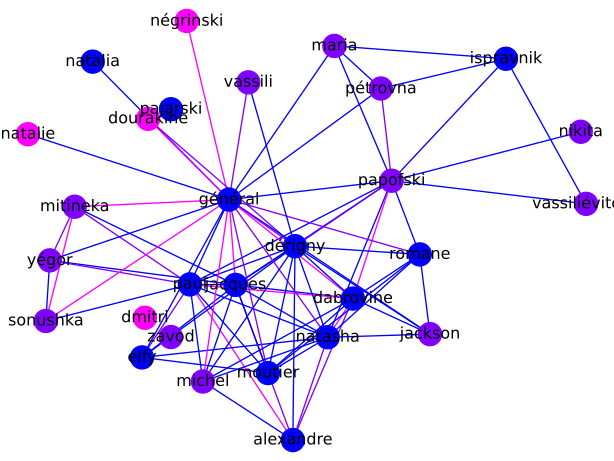
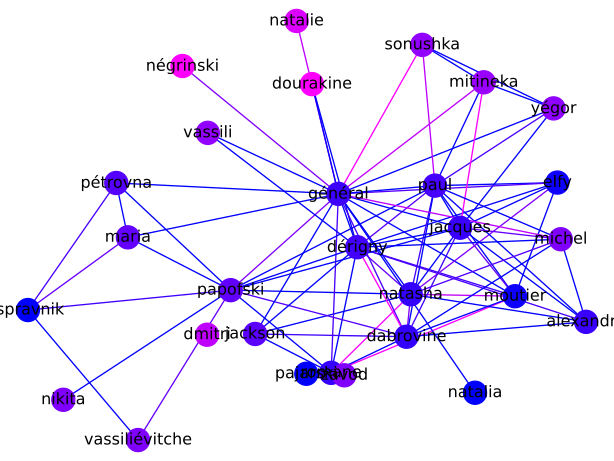
Docstrings added to character_identification, and complete conversion to function; test of clustering as node labels

diff --git a/textual_analysis.py b/textual_analysis.py
@@ -7,9 +7,12 @@ import networkx as nx
 import matplotlib.pyplot as plt
 import logging
 from sklearn.feature_extraction.text import TfidfVectorizer
+from sklearn.cluster import KMeans
+from sklearn import preprocessing
 from joblib import load
 from sentiment_analysis_training_set_generation import file_processor, text_preprocessing
 from co_occurrence_data_generation import list_comparer, general_character_handling
+from character_identification import execute_char_id
 
 logging.basicConfig(level=logging.CRITICAL,format='%(asctime)s - %(levelname)s - %(message)s')
 
@@ -44,9 +47,6 @@ def network_visualizer(edge_matrix, character_list, edge_sentiment, node_sentime
             if i < j:
                 if edge_matrix[i,j] == True:
                     edge_list.append((characters[i],characters[j]))
-    ### Characterize sentiment as positive vs negative vs. neutral
-    edge_sentiment = [1 if ind >= 0.35 else 0.5 if -0.35 < ind and ind < 0.35 else 0 for ind in edge_sentiment]
-    node_sentiment = [1 if ind >= 0.35 else 0.5 if -0.35 < ind and ind < 0.35 else 0 for ind in node_sentiment]
     ### Create RGB tuple vectors for edges and nodes
     edge_colours = []
     for i in edge_sentiment:
@@ -66,7 +66,7 @@ def network_visualizer(edge_matrix, character_list, edge_sentiment, node_sentime
 if __name__ == "__main__":
 
     ### Load text file, remove licence, and do text_preprocessing
-    processed = text_preprocessing(file_processor('./data/general.txt','''A ma petite-fille'''))
+    processed = text_preprocessing(file_processor('./data/general.txt','''A ma petite-fille''','''End of Project Gutenberg's'''))
 
     ### Load pretrained vectorizer and classifier
     vectorizer = load('./data/vectorizer.joblib')
@@ -77,11 +77,12 @@ if __name__ == "__main__":
     text = nltk.Text(tokens)
 
     ### The names of characters
-    names = list(load('./data/character_names.joblib'))
+    names = execute_char_id('./data/general.txt','''A ma petite-fille''','''End of Project Gutenberg's''')
     names = [i.lower() for i in names]
 
     ### Generate list of locations for each character
     locations = general_character_handling(text, names)
+    number_of_occurrences = [len(ind) for ind in locations]
 
     ### How close in the text should character tokens have to be to be counted?
     threshold = 20
@@ -104,7 +105,16 @@ if __name__ == "__main__":
             char_scores.append(np.mean(scores))
         else:
             char_scores.append(0)
-    print(char_scores)
+    char_scores_regularized = [(i+1)/2 for i in char_scores]
+
+    data = np.array((char_scores,number_of_occurrences)).T
+    # print(data)
+
+    # ### Clustering of characters by character sentiment and number of occurrences
+    # kmeans = KMeans(n_clusters=3, random_state=0).fit(data)
+    # char_clusters_for_plotting = [i/2 for i in kmeans.labels_]
+    # for i in range(len(char_clusters_for_plotting)):
+    #     print("Name: {}, Cluster: {}".format(names[i], kmeans.labels_[i]))
 
     ### Sentiment scores for co-occurrence passages
     df = pd.read_csv('./data/relationship_passages.csv')
@@ -125,11 +135,11 @@ if __name__ == "__main__":
     ### Mean sentiment score for each edge in the graph, in same order
     ### as edges extracted from the table of edges (i.e. order in network_visualizer)
     mean_passage_scores = [ind for ind in valid_edge_scores if isinstance(ind,float)]
-    print(mean_passage_scores)
+    passage_scores_regularized = [(i+1)/2 for i in mean_passage_scores]
 
     ### Temporarily equate characters and names (ultimately characters should
     ###be a resolved form of names)
     characters = names
 
     ### Visualizing network
-    network_visualizer(edges, characters, mean_passage_scores, char_scores)
+    network_visualizer(edges, characters, passage_scores_regularized, char_scores_regularized)

diff --git a/character_identification.py b/character_identification.py
@@ -1,10 +1,13 @@
 import nltk as nltk
-import numpy as np
 import re
-from sentiment_analysis_training_set_generation import file_processor, text_preprocessing
-from joblib import dump
+from sentiment_analysis_training_set_generation import file_processor
 
 def capitalized_not_sentence_beginner(text):
+    '''(str) -> {str}
+    Accepts a raw string and finds all the words in the string that are capitalized
+    but which don't begin a sentence. Then removes stopwords, geographic place
+    names, and rare entries before returning the remaining words in a set.'''
+
     ### Use Regex to find all words that begin with a capital letter but that
     ### don't begin a sentence. Note: still captures words at beginning of sentence
     ### that begin their paragraph.
@@ -32,14 +35,16 @@ def capitalized_not_sentence_beginner(text):
     for i in results:
         count.setdefault(i,0)
         count[i] = count[i]+1
-    # print(count)
 
     results = {i for i in count.keys() if count[i] > 4}
     return results
-    ### Results offers names of characters. Remaining issues include
-    ### lack of mentions of the general, resolution of synonyms.
 
 def uncapitalized_speakers(text):
+    '''(str) -> {str}
+    Accepts a raw string and finds instances of a uncapitalized words preceding a colon
+    followed by opening guimets, indicating a speaker. Removes rare results
+    before returning a set of results.'''
+
     ### One of the challenges with capitalized names is that honorifics
     ### (e.g. docteur, sergent) and family names following honorifics
     ### (e.g. ispravnik) aren't capitalized.
@@ -47,7 +52,7 @@ def uncapitalized_speakers(text):
     ### As the dialogue in the text is semi-structured
     ### we can use that to identify speakers whose names aren't capitalized:
     pattern = re.compile(r'\s([a-zà-ÿ]+): «')
-    results = pattern.findall(raw)
+    results = pattern.findall(text)
     ### Count occurrences of each key, with a goal of removing rare words
     count = {}
     for i in results:
@@ -56,22 +61,19 @@ def uncapitalized_speakers(text):
     results = {i for i in count.keys() if count[i] > 9}
     return results
 
+def execute_char_id(file, beginning_of_text,end_of_text):
+    '''(str,str,str) -> {str}
+    Accepts a file path, a string indicating the beginning of the text (of interest),
+    and a string indicating the end of the text (of interest). Returns a set
+    of character names that results from combining the sets generated by
+    capitalized_names and uncapitalized_names.'''
 
-### Main module
-if __name__ == "__main__":
-
-    ### Load text file, remove licence, and do text_preprocessing
-    raw = file_processor('./data/general.txt','''A ma petite-fille''')
-    processed = text_preprocessing(raw)
-    ### Tokenize into words to find cooccurrences
-    tokens = nltk.word_tokenize(processed)
-    text = nltk.Text(tokens)
+    ### Load text file, remove licence
+    raw = file_processor(file,beginning_of_text,end_of_text)
 
     ### Generate set of proper nouns expected to be people
     capitalized_names = capitalized_not_sentence_beginner(raw)
     uncapitalized_names = uncapitalized_speakers(raw)
     characters = capitalized_names|uncapitalized_names
-    dump(characters,'./data/character_names.joblib')
 
-    ### TO DO ###
-    ### Resolve characters whose names are the same
+    return characters

diff --git a/sentiment_analysis_training_set_generation.py b/sentiment_analysis_training_set_generation.py
@@ -16,7 +16,7 @@ def text_preprocessing(text):
     processed = processed.lower()
     return processed
 
-def file_processor(file_name, initializer_string):
+def file_processor(file_name, initializer_string, terminator_string):
     '''Accepts a valid file name and a string of text that indicates the
     end of the Gutenberg licence. It removes the licence and returns
     the raw text of the document'''
@@ -24,7 +24,7 @@ def file_processor(file_name, initializer_string):
     raw = fh.read()
     fh.close()
     end_of_preample = raw.index(initializer_string)
-    end_of_book = raw.index('''End of Project Gutenberg's''')
+    end_of_book = raw.index(terminator_string)
     licence_removed = raw[end_of_preample:end_of_book]
     return licence_removed
 
@@ -41,8 +41,8 @@ def generate_sentence_csv(text, file_name):
 if __name__ == "__main__":
 
     ### Load training file, remove licence, and preprocess
-    training_file = text_preprocessing(file_processor('./data/auberge.txt','''A mes petits-fils, LOUIS ET GASTON DE MALARET'''))
-    target_file = text_preprocessing(file_processor('./data/general.txt','''A ma petite-fille'''))
+    training_file = text_preprocessing(file_processor('./data/auberge.txt','''A mes petits-fils, LOUIS ET GASTON DE MALARET''','''End of Project Gutenberg's'''))
+    target_file = text_preprocessing(file_processor('./data/general.txt','''A ma petite-fille''','''End of Project Gutenberg's'''))
 
     ### Generate output csvs from text for training and target text
     generate_sentence_csv(training_file,'./data/auberge_raw_sentences.csv')

diff --git a/sentiment_analysis_training.py b/sentiment_analysis_training.py
@@ -17,10 +17,10 @@ logging.basicConfig(level=logging.DEBUG,format='%(asctime)s - %(levelname)s - %(
 def cross_validation_suite(X_train, y_train):
     models = [RandomForestClassifier(n_estimators=200, random_state=0),
         MultinomialNB(),
-        ComplementNB()
-        ,GradientBoostingClassifier(n_estimators=200, random_state=0)]
-    names = ['Random forest:', 'Multinobial Bayes:', 'Complement Bayes:'
-        ,'Gradient Boosting:']
+        ComplementNB()]
+        # ,GradientBoostingClassifier(n_estimators=200, random_state=0)]
+    names = ['Random forest:', 'Multinobial Bayes:', 'Complement Bayes:']
+        # ,'Gradient Boosting:']
     for i in range(len(models)):
         clf = models[i]
         score = cross_val_score(clf,X_train,y_train)
@@ -49,6 +49,7 @@ if __name__ == "__main__":
 
     ### Vectorize text
     # vectorizer = CountVectorizer(max_features=2500, stop_words=stopwords.words('french'))
+    # vectorizer = CountVectorizer(analyzer='char', ngram_range=(5, 5))
     vectorizer = TfidfVectorizer(max_features=2500, stop_words=stopwords.words('french'))
     vectorizer.fit(complete_features)
     features = vectorizer.transform(features).toarray()
@@ -76,5 +77,5 @@ if __name__ == "__main__":
     print(classification_report(y_test,predictions))
     print(accuracy_score(y_test, predictions))
 
-    dump(clf, './data/sentiment_analysis_model.joblib')
-    dump(vectorizer, './data/vectorizer.joblib')
+    # dump(clf, './data/sentiment_analysis_model.joblib')
+    # dump(vectorizer, './data/vectorizer.joblib')

diff --git a/co_occurrence_data_generation.py b/co_occurrence_data_generation.py
@@ -4,8 +4,7 @@ import itertools
 import csv
 import re
 import logging
-from joblib import load
-
+from character_identification import execute_char_id
 from sentiment_analysis_training_set_generation import file_processor, text_preprocessing
 
 logging.basicConfig(level=logging.CRITICAL,format='%(asctime)s - %(levelname)s - %(message)s')
@@ -96,14 +95,14 @@ def list_comparer(lists, threshold):
 if __name__ == "__main__":
 
     ### Load text file, remove licence, and do text_preprocessing
-    processed = text_preprocessing(file_processor('./data/general.txt','''A ma petite-fille'''))
+    processed = text_preprocessing(file_processor('./data/general.txt','''A ma petite-fille''','''End of Project Gutenberg's'''))
 
     ### Tokenize into words to find cooccurrences
     tokens = nltk.word_tokenize(processed)
     text = nltk.Text(tokens)
 
     ### The names of characters
-    names = list(load('./data/character_names.joblib'))
+    names = execute_char_id('./data/general.txt','''A ma petite-fille''','''End of Project Gutenberg's''')
     names = [i.lower() for i in names]
 
     ### Generate list of locations for each character

diff --git a/character_identification_spacy.py b/character_identification_spacy.py
@@ -10,8 +10,8 @@ if __name__ == "__main__":
     ### Load a pre-trained model
     nlp = spacy.load("fr_core_news_sm")
 
-    ### Load text file, remove licence, and do text_preprocessing
-    raw = file_processor('./data/general.txt','''A ma petite-fille''')
+    ### Load text file and remove licence
+    raw = file_processor('./data/general.txt','''A ma petite-fille''','''End of Project Gutenberg's''')
 
     ### Do the processing
     doc = nlp(raw)

diff --git a/readme.md b/readme.md
@@ -30,7 +30,7 @@ her novel *L'auberge de l'ange gardien*. Ultimately the goal is to be able to ge
 it to any text.
 
 At this point all steps in the pipeline are functional, though iterative improvements
-are planned. You can see a sample network built by the model below:
+are planned. You can see a sample network built by the model below (positive characters and interactions in blue, neutral in purple, and negative in pink):
 
 !["Visualization of network in progress"](https://github.com/mpedruski/character_net/blob/master/results/character_network.svg.png "Network in progress")
 
